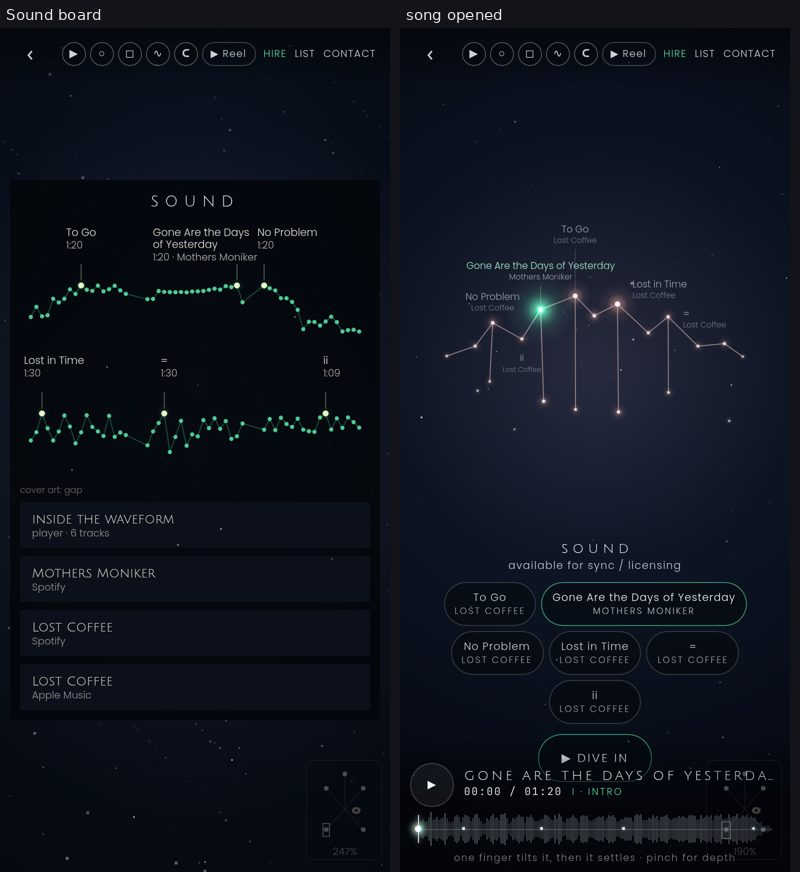
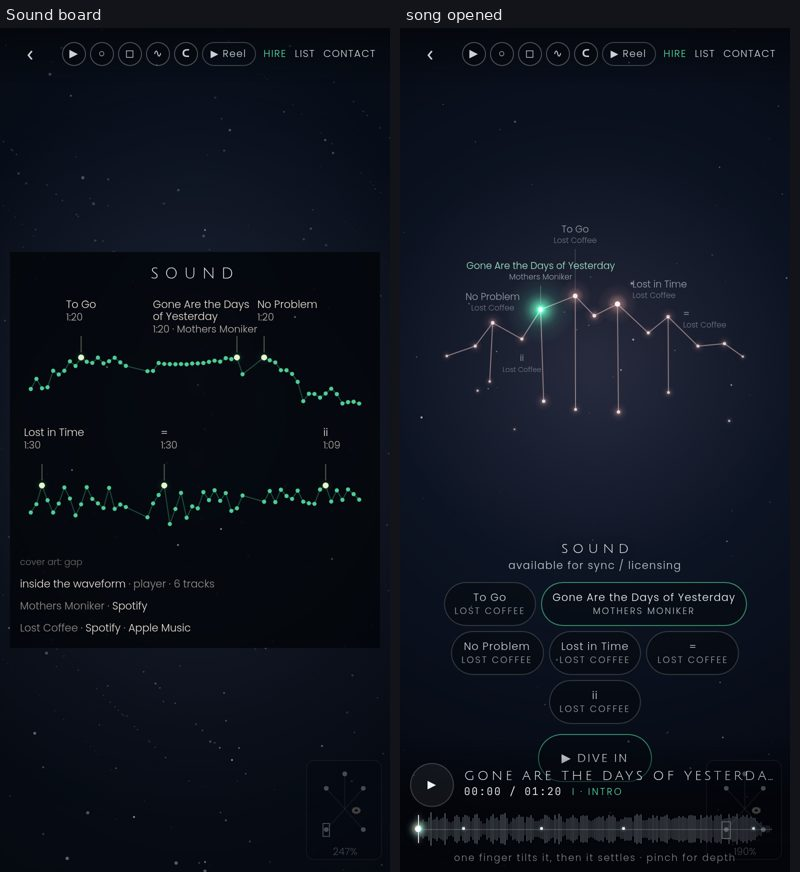
u4-opus-m3: Sound board links as plain text (Lost Coffee · Spotify · Apple Music on one line); distinct MID labels for the two Old Man Canyon works; refresh _progress

diff --git a/u4-opus-m3/js/sky.js b/u4-opus-m3/js/sky.js
@@ -94,6 +94,12 @@ function addNov9(){
   });
 }
 /* Sound board: every song as one stretch of a single dotted waveform, then the player and the streaming rows. */
+/* Text links under the Sound waveform: [text, isLink]. Lost Coffee's two services share one line. */
+function soundSegs(it){
+  if(it.id==='sound/lost-coffee-apple-music')return [[' · ',0],['Apple Music',1]];
+  if(it.kind==='player'||it.id==='sound/waveform')return [[it.title||'',1],[' · '+(it.meta||''),0]];
+  return [[it.title||'',0],[' · ',0],[it.meta||'',1]];
+}
 function soundBoard(){
   var out=(data.tracks||[]).map(function(t){return byId['sound/track/'+t.k]}).filter(Boolean);
   return out.concat(CH.sound.items.filter(function(it){return it.id!=='sound/to-go'}));
@@ -448,9 +454,12 @@ function midLabels(list,bl){
     return false;
   }
   g.font='300 9.5px Poppins,sans-serif';g.textAlign='left';g.textBaseline='top';
+  var seen={};
+  list.forEach(function(it){if(it._mr&&it.title){var c0=cut(it.title,Math.max(it._mr[2]+16,64));seen[c0]=(seen[c0]||0)+1}});
   list.forEach(function(it){
     var r=it._mr;if(!r)return;
     var t=it.title||'';if(!t||/^photograph\s+\d+$/i.test(t)||t==='untitled')return;
+    if(seen[cut(t,Math.max(r[2]+16,64))]>1&&t.indexOf(' · ')>0)t=t.slice(t.lastIndexOf(' · ')+3);
     var cx=r[0]+r[2]/2;
     if(cx<4||cx>W-4||r[1]+r[3]<64||r[1]>H-12)return;
     var txt=cut(t,Math.max(r[2]+16,64)),lw=g.measureText(txt).width;
@@ -666,8 +675,11 @@ function boardSpec(key,items){
     cap=0;
     items.forEach(function(it,j){
       if(it.kind==='track'){var r=Math.floor(nt/3),c=nt%3;rects.push({x:c*segW,y:r*rowS,w:segW,h:rowS});nt++;return}
-      var y0s=Math.ceil(nt/3)*rowS+22,k2=j-nt;
-      rects.push({x:0,y:y0s+k2*(46+gap),w:maxW-pad*2,h:46});
+      var y0s=Math.ceil(nt/3)*rowS+24,prev=rects[rects.length-1],segs=soundSegs(it),lw=0;
+      g.font='300 10.5px Poppins,sans-serif';
+      segs.forEach(function(sg){lw+=g.measureText(sg[0]).width});
+      if(it.id==='sound/lost-coffee-apple-music'&&prev&&prev.text)rects.push({x:prev.x+prev.w,y:prev.y,w:lw,h:18,text:1});
+      else rects.push({x:0,y:prev&&prev.text?prev.y+22:y0s,w:lw,h:18,text:1});
     });
     rects.forEach(function(r){bottom=Math.max(bottom,r.y+r.h)});
   }else if(key==='film'){
@@ -817,12 +829,12 @@ function drawWindow(){
         g.fillText('cover art: gap',spec.x0+spec.pad,y+h+6);
       }
     }else if(spec.key==='sound'&&!(db&&db.fine)){
-      g.fillStyle='rgba(12,18,28,.9)';g.fillRect(x,y,w,h);
-      g.textAlign='left';g.textBaseline='middle';
-      g.font='400 13px "Julius Sans One",sans-serif';g.fillStyle=sel&&sel.id===it.id?'rgb('+MINT+')':'#e4ddd2';
-      g.fillText(cut(it.title,w-24),x+12,y+h*.38);
-      g.font='300 10px Poppins,sans-serif';g.fillStyle='rgba(228,221,210,.62)';
-      g.fillText(cut(it.meta||'',w-24),x+12,y+h*.7);
+      g.textAlign='left';g.textBaseline='middle';g.font='300 10.5px Poppins,sans-serif';
+      var tx=x,on=sel&&sel.id===it.id;
+      soundSegs(it).forEach(function(sg){
+        g.fillStyle=sg[1]?(on?'rgb('+MINT+')':'#e4ddd2'):'rgba(228,221,210,.62)';
+        g.fillText(sg[0],tx,y+h/2);tx+=g.measureText(sg[0]).width;
+      });
     }else if(spec.key==='about'&&spec.board){
       g.fillStyle='rgba(12,18,28,.9)';g.fillRect(x,y,w,h);
       g.textAlign='left';g.textBaseline='middle';
@@ -838,7 +850,7 @@ function drawWindow(){
       g.fillText(cut(it._text||it.title,w-8),x+w/2,y+h/2);
     }else{var tint=CH[it.chapter]?CH[it.chapter].tint:'160,176,196';g.fillStyle='rgba('+tint+',.18)';g.fillRect(x,y,w,h);
       if(!it._im){g.font='300 11px Poppins,sans-serif';g.fillStyle='rgba(233,239,248,.82)';g.textAlign='center';g.textBaseline='middle';g.fillText(cut(it.title,w-12),x+w/2,y+h/2)}}
-    if(sel&&sel.id===it.id){g.strokeStyle='rgba('+MINT+',.95)';g.lineWidth=1.5;g.strokeRect(x-1,y-1,w+2,h+2);g.lineWidth=1}
+    if(sel&&sel.id===it.id&&!(spec.key==='sound'&&it.kind!=='track')){g.strokeStyle='rgba('+MINT+',.95)';g.lineWidth=1.5;g.strokeRect(x-1,y-1,w+2,h+2);g.lineWidth=1}
     var capText=it._cap||it.title;
     if(/^photograph\s+\d+$/i.test(capText||'')||capText==='untitled')capText='';
     if(b>.72&&spec.board&&spec.cap>=20&&capText){

diff --git a/u4-opus-m3/sw.js b/u4-opus-m3/sw.js
@@ -1,6 +1,6 @@
 /* Shell only. Video and audio are never stored; everything else off this origin streams.
    The cache name follows this folder, so a copy (u4 beside u3) does not share a shell. */
-var SHELL_REV = '10';
+var SHELL_REV = '11';
 var FOLDER = new URL('./', self.location).pathname.replace(/\/+$/, '') || '/';
 var CACHE = 'shell-' + FOLDER + '-' + SHELL_REV;
 var SHELL = [

diff --git a/u4-opus-m3/_progress/CHECKLIST.md b/u4-opus-m3/_progress/CHECKLIST.md
@@ -15,11 +15,11 @@ Self-check at 390x844 in Chrome (Playwright, touch, device scale 2). The pinches
 
 | # | Item | Result | Evidence |
 |---|------|--------|----------|
-| 5 | FAR → MID at u3's fit.s×1.45, with no label collisions and nothing cut off at 390 wide. Outer stars may sit off-frame. | PASS | `check/05-mid.jpg`. The scripted check of every chapter found 0 thumbnail/thumbnail overlaps, 0 label/thumbnail, 0 label/label and 0 labels outside the safe width (film: 38 stars, 30 titles shown). |
+| 5 | FAR → MID at u3's fit.s×1.45, with no label collisions and nothing cut off at 390 wide. Outer stars may sit off-frame. | PASS | `check/05-mid.jpg`. The scripted check of every chapter found 0 thumbnail/thumbnail overlaps, 0 label/thumbnail, 0 label/label and 0 labels outside the safe width (film: 38 stars, 30 titles shown). The two Old Man Canyon works read "Back to the…" and "Phantoms &…", because titles that would truncate to the same text fall back to the work name. |
 | 6 | MID → BOARD: the same camera pushes in toward the touch, the board is painted in the sky with a ring of night around it, and there's no scrim or scrolling overlay. | PASS | `check/06-board-in-sky.jpg` |
 | 7 | Film: 2.39 strips, staggered 2-up, never overlapping, with title + role under each frame. "Just The Beginning" is credited to Gill James and Ryan. | PASS | `check/07-film.jpg`. 54 tiles, 0 overlaps (caption block included). |
 | 8 | Photo: print stacks with slight rotation, cream mats, gaps and no overlap. | PASS | `check/08-photo.jpg`. 56 prints, 0 overlaps measured on the rotated outlines. |
-| 9 | Sound: a dotted waveform with every peak labelled by song, lengths in m:ss ("1:20"), and no placeholder covers. | PASS | `check/09-sound.jpg`. The missing cover art is flagged on the board as "cover art: gap". |
+| 9 | Sound: a dotted waveform with every peak labelled by song, lengths in m:ss ("1:20"), and no placeholder covers. | PASS | `check/09-sound.jpg`. The missing cover art is flagged on the board as "cover art: gap". The player and streaming entries under the waveform are plain text links in the peak-label type, with Lost Coffee on one line: "Lost Coffee · Spotify · Apple Music". The titles "=" and "ii" are the real song titles: they match pro2's `tracks.js` (from `lc_eq.wav` and `lc_ii.wav`) and the pro2 practice pages. |
 | 10 | Objects: all 14 pro2 objects plus Spirit Eye with their imagery, captions under their own piece, plus Gill's Nov 9 object images and clips. | PASS | `check/10-objects.jpg` and `09-nov9.png`. 78 tiles, 0 overlaps. |
 | 11 | About: text-led, Vancouver, no he/him; the calculator is one level below. | PASS | `check/11-about.jpg` |
 | 12 | BOARD → WORK: the work grows out of the tapped tile, and its first frame is a real still. | PASS | `check/12-iris.jpg` |
